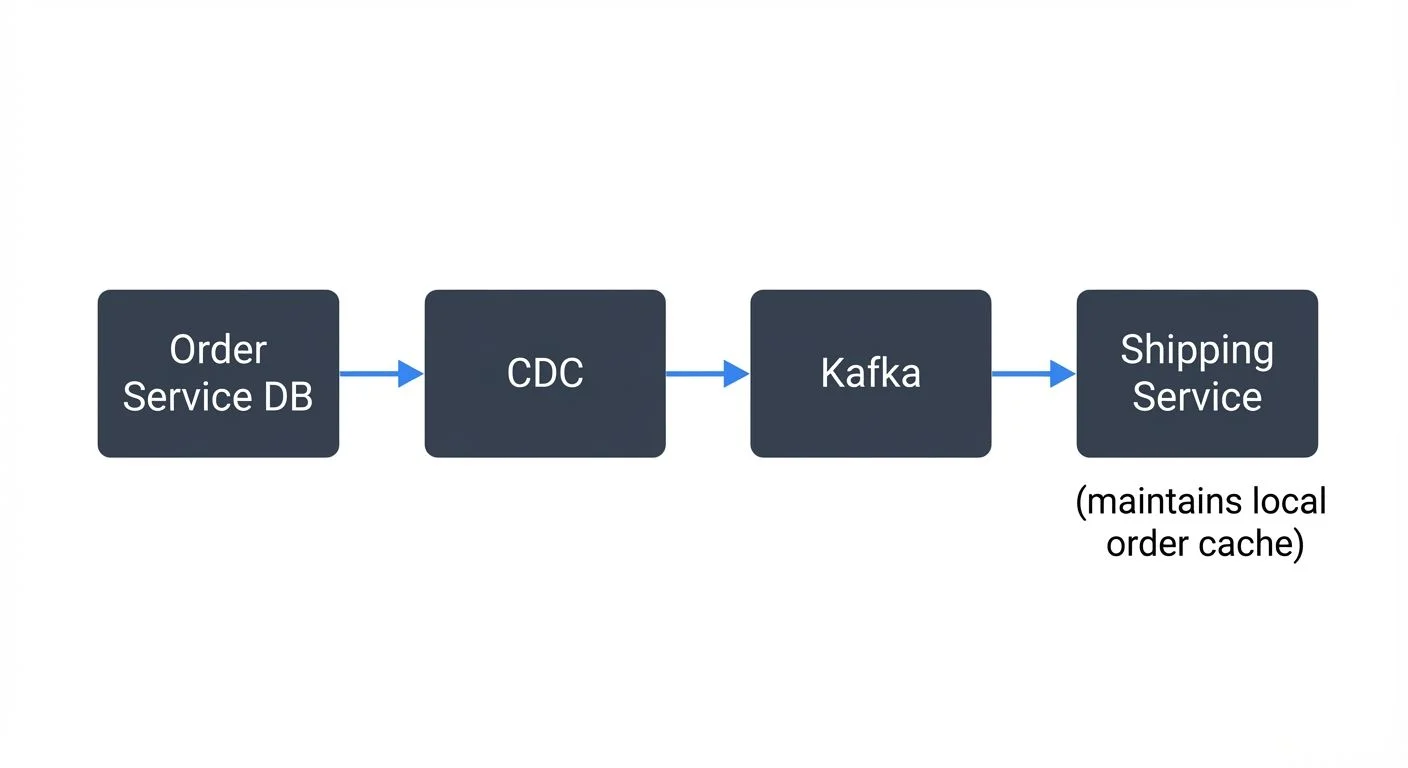
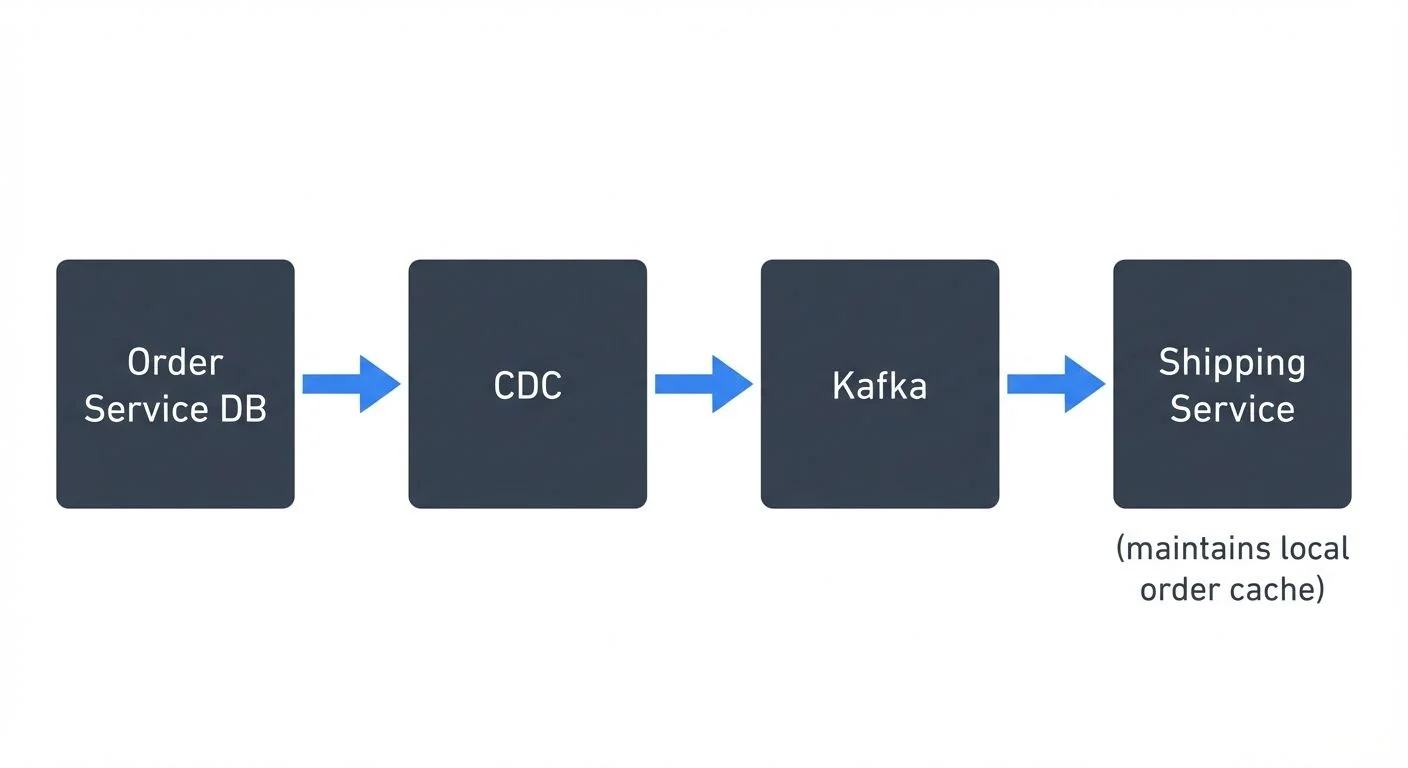
Fix nested HTML comment bug and regenerate 25 diagrams
- Restored 7 affected markdown files from clean state (af07f47)
- Regenerated all 25 diagram images with Gemini API
- Fixed cumulative --> closure bug from previous conversion runs
- Converted 71 internal links to absolute URLs

Affected files:
- api-gateway-patterns-for-data-platforms.md
- cdc-for-microservices-event-driven-architectures.md
- data-lake-zones-bronze-silver-gold-architecture.md
- delta-lake-transaction-log-how-it-works.md
- kafka-topics-partitions-brokers-core-architecture.md
- real-time-ml-pipelines.md
- windowing-in-apache-flink-tumbling-sliding-and-session-windows.md

Changed region(s): [[0.0312, 0.3125, 0.9688, 0.7812], [0.3438, 0.4688, 0.4062, 0.5312]]

diff --git a/delta-lake-transaction-log-how-it-works.md b/delta-lake-transaction-log-how-it-works.md
@@ -32,9 +32,6 @@ When a reader queries a Delta table, it reconstructs the current state by readin
 ![delta-lake-transaction-log-how-it-works diagram 1](images/diagrams/delta-lake-transaction-log-how-it-works-0.webp)
 
 <!-- ORIGINAL_DIAGRAM
-![Example of compatible blind appends](images/diagrams/delta-lake-transaction-log-how-it-works-0.webp)
-
-<!-- ORIGINAL_DIAGRAM
 ```
                     Delta Table Structure
 ┌────────────────────────────────────────────────────────────┐
@@ -52,7 +49,6 @@ When a reader queries a Delta table, it reconstructs the current state by readin
 │  └─ part-00002-....parquet                                │
 └────────────────────────────────────────────────────────────┘
 ```
--->
 -->
 
 ## The Optimistic Concurrency Commit Protocol
@@ -80,9 +76,6 @@ When a writer wants to commit changes:
 ![delta-lake-transaction-log-how-it-works diagram 2](images/diagrams/delta-lake-transaction-log-how-it-works-1.webp)
 
 <!-- ORIGINAL_DIAGRAM
-![When you run a time travel query, Delta Lake performs these steps](images/diagrams/delta-lake-transaction-log-how-it-works-1.webp)
-
-<!-- ORIGINAL_DIAGRAM
 ```
               Optimistic Concurrency Protocol
 
@@ -106,7 +99,6 @@ When a writer wants to commit changes:
       │                                           ✓ SUCCESS
       ▼                                           ▼
 ```
--->
 -->
 
 The atomicity guarantee comes from cloud storage's conditional PUT operations (e.g., S3's PUT-if-absent, ADLS's create-if-not-exists). These operations either fully succeed or fully fail—there's no in-between state where a file is "partially written." When S3 receives two simultaneous PUT-if-absent requests for the same file, exactly one succeeds and the other fails immediately. The failed writer detects the conflict, re-validates against the new state, and retries if the operation is still valid.
@@ -157,7 +149,7 @@ Delta Lake categorizes conflicts into two types:
 **1. Blind Append Conflicts** - Two writers adding new data with no dependency on existing rows. These typically proceed without conflict because writers are adding different data.
 
 Example of compatible blind appends:
-![Example of compatible blind appends](images/diagrams/delta-lake-transaction-log-how-it-works-4.webp)
+![Example of compatible blind appends](images/diagrams/delta-lake-transaction-log-how-it-works-2.webp)
 
 <!-- ORIGINAL_DIAGRAM
 ```
@@ -226,7 +218,7 @@ As tables evolve through hundreds or thousands of commits, reading the entire tr
 
 Every 10 commits (by default), Delta Lake generates a checkpoint file that represents the complete table state at that version. This checkpoint is a Parquet file containing the same information as the aggregated JSON log entries up to that point.
 
-![delta-lake-transaction-log-how-it-works diagram 3](images/diagrams/delta-lake-transaction-log-how-it-works-2.webp)
+![delta-lake-transaction-log-how-it-works diagram 4](images/diagrams/delta-lake-transaction-log-how-it-works-3.webp)
 
 <!-- ORIGINAL_DIAGRAM
 ```
@@ -278,7 +270,7 @@ This compression dramatically reduces the amount of data readers must process to
 
 For very large tables, Delta Lake can create multi-part checkpoints split across multiple Parquet files, with a JSON manifest coordinating the parts:
 
-![For very large tables, Delta Lake can create multi-part checkpoints split across multiple Parquet files, with a JSON manifest coordinating the parts](images/diagrams/delta-lake-transaction-log-how-it-works-3.webp)
+![For very large tables, Delta Lake can create multi-part checkpoints split across multiple Parquet files, with a JSON manifest coordinating the parts](images/diagrams/delta-lake-transaction-log-how-it-works-4.webp)
 
 <!-- ORIGINAL_DIAGRAM
 ```

diff --git a/data-lake-zones-bronze-silver-gold-architecture.md b/data-lake-zones-bronze-silver-gold-architecture.md
@@ -17,7 +17,7 @@ The Medallion Architecture, also known as the Bronze-Silver-Gold pattern, has be
 
 The Medallion Architecture divides your data lake into three distinct zones, each serving a specific purpose in the data pipeline:
 
-![The Medallion Architecture divides your data lake into three distinct zones, each serving a specific purpose in the data pipeline](images/diagrams/data-lake-zones-bronze-silver-gold-architecture-2.webp)
+![The Medallion Architecture divides your data lake into three distinct zones, each serving a specific purpose in the data pipeline](images/diagrams/data-lake-zones-bronze-silver-gold-architecture-0.webp)
 
 <!-- ORIGINAL_DIAGRAM
 ```
@@ -58,7 +58,7 @@ For real-time data pipelines, the Bronze layer excels at consuming streaming dat
 
 Modern Kafka platforms like **Conduktor** provide essential visibility into streaming data flows, helping teams manage topics, monitor consumer lag, validate schemas, and track data quality metrics as events flow into the Bronze layer. This operational insight ensures that your Bronze ingestion pipeline remains healthy and performant.
 
-![The Medallion Architecture divides your data lake into three distinct zones, each serving a specific purpose in the data pipeline](images/diagrams/data-lake-zones-bronze-silver-gold-architecture-1.webp)
+![data-lake-zones-bronze-silver-gold-architecture diagram 2](images/diagrams/data-lake-zones-bronze-silver-gold-architecture-1.webp)
 
 <!-- ORIGINAL_DIAGRAM
 ```
@@ -164,10 +164,7 @@ The Gold layer contains curated, business-level datasets optimized for specific 
 
 Unlike Bronze and Silver, which are technical layers, Gold is organized around business domains:
 
-![Unlike Bronze and Silver, which are technical layers, Gold is organized around business domains](images/diagrams/data-lake-zones-bronze-silver-gold-architecture-0.webp)
-
-<!-- ORIGINAL_DIAGRAM
-![The Medallion Architecture divides your data lake into three distinct zones, each serving a specific purpose in the data pipeline](images/diagrams/data-lake-zones-bronze-silver-gold-architecture-0.webp)
+![Unlike Bronze and Silver, which are technical layers, Gold is organized around business domains](images/diagrams/data-lake-zones-bronze-silver-gold-architecture-2.webp)
 
 <!-- ORIGINAL_DIAGRAM
 ```
@@ -182,7 +179,6 @@ gold/
     ├── feature_usage_metrics
     └── user_engagement_scores
 ```
--->
 -->
 
 ### Example Gold Table

diff --git a/windowing-in-apache-flink-tumbling-sliding-and-session-windows.md b/windowing-in-apache-flink-tumbling-sliding-and-session-windows.md
@@ -45,9 +45,6 @@ Windows are fundamental constructs in stream processing that segment continuous 
 ![windowing-in-apache-flink-tumbling-sliding-and-session-windows diagram 1](images/diagrams/windowing-in-apache-flink-tumbling-sliding-and-session-windows-0.webp)
 
 <!-- ORIGINAL_DIAGRAM
-![windowing-in-apache-flink-tumbling-sliding-and-session-windows diagram 1](images/diagrams/windowing-in-apache-flink-tumbling-sliding-and-session-windows-0.webp)
-
-<!-- ORIGINAL_DIAGRAM
 ```
 ┌──────────────────────────────────────────────────────────────────┐
 │                   Window Types Overview                          │
@@ -80,7 +77,6 @@ Windows are fundamental constructs in stream processing that segment continuous 
 └──────────────────────────────────────────────────────────────────┘
 ```
 -->
--->
 
 Flink supports two main categories of windows:
 
@@ -102,7 +98,7 @@ Event time provides deterministic results and handles out-of-order events correc
 
 **Watermarks** are Flink's mechanism for tracking event time progress in the stream. A watermark with timestamp T is an assertion that "all events with timestamps less than T have arrived."
 
-![windowing-in-apache-flink-tumbling-sliding-and-session-windows diagram 3](images/diagrams/windowing-in-apache-flink-tumbling-sliding-and-session-windows-2.webp)
+![windowing-in-apache-flink-tumbling-sliding-and-session-windows diagram 2](images/diagrams/windowing-in-apache-flink-tumbling-sliding-and-session-windows-1.webp)
 
 <!-- ORIGINAL_DIAGRAM
 ```
@@ -511,7 +507,7 @@ This governance layer becomes essential when managing multiple Flink jobs consum
 
 Selecting the appropriate window type is critical for both correctness and performance. Use this decision tree:
 
-![Selecting the appropriate window type is critical for both correctness and performance. Use this decision tree](images/diagrams/windowing-in-apache-flink-tumbling-sliding-and-session-windows-1.webp)
+![Selecting the appropriate window type is critical for both correctness and performance. Use this decision tree](images/diagrams/windowing-in-apache-flink-tumbling-sliding-and-session-windows-2.webp)
 
 <!-- ORIGINAL_DIAGRAM
 ```

diff --git a/kafka-topics-partitions-brokers-core-architecture.md b/kafka-topics-partitions-brokers-core-architecture.md
@@ -50,7 +50,7 @@ ProducerRecord<String, String> record =
 // Forces message to partition 2
 ```
 
-![kafka-topics-partitions-brokers-core-architecture diagram 4](images/diagrams/kafka-topics-partitions-brokers-core-architecture-3.webp)
+![kafka-topics-partitions-brokers-core-architecture diagram 1](images/diagrams/kafka-topics-partitions-brokers-core-architecture-0.webp)
 
 <!-- ORIGINAL_DIAGRAM
 ```
@@ -162,10 +162,7 @@ Instead of external ZooKeeper nodes, dedicated **controller nodes** (or combined
 
 **Architecture Impact:**
 
-![**Architecture Impact:**](images/diagrams/kafka-topics-partitions-brokers-core-architecture-0.webp)
-
-<!-- ORIGINAL_DIAGRAM
-![kafka-topics-partitions-brokers-core-architecture diagram 1](images/diagrams/kafka-topics-partitions-brokers-core-architecture-0.webp)
+![**Architecture Impact:**](images/diagrams/kafka-topics-partitions-brokers-core-architecture-1.webp)
 
 <!-- ORIGINAL_DIAGRAM
 ```
@@ -183,7 +180,6 @@ Traditional (ZooKeeper):                 KRaft Mode (Kafka 4.0+):
 └────────────┘         └──────────┘    └────────────┘         └──────────┘
 ```
 -->
--->
 
 For in-depth coverage of KRaft architecture and migration strategies, see [Understanding KRaft Mode in Kafka](https://conduktor.io/glossary/understanding-kraft-mode-in-kafka).
 
@@ -200,7 +196,7 @@ Kafka 3.6+ introduced **tiered storage**, fundamentally changing how brokers man
 
 **Architectural Benefits:**
 
-![**Architectural Benefits:**](images/diagrams/kafka-topics-partitions-brokers-core-architecture-1.webp)
+![**Architectural Benefits:**](images/diagrams/kafka-topics-partitions-brokers-core-architecture-2.webp)
 
 <!-- ORIGINAL_DIAGRAM
 ```
@@ -231,7 +227,7 @@ For detailed configuration and best practices, see [Tiered Storage in Kafka](htt
 
 The interaction between topics, partitions, and brokers creates Kafka's distributed log architecture:
 
-![The interaction between topics, partitions, and brokers creates Kafka's distributed log architecture](images/diagrams/kafka-topics-partitions-brokers-core-architecture-2.webp)
+![The interaction between topics, partitions, and brokers creates Kafka's distributed log architecture](images/diagrams/kafka-topics-partitions-brokers-core-architecture-3.webp)
 
 <!-- ORIGINAL_DIAGRAM
 ```

diff --git a/real-time-ml-pipelines.md b/real-time-ml-pipelines.md
@@ -35,9 +35,6 @@ A complete real-time ML pipeline consists of several interconnected layers:
 ![A complete real-time ML pipeline consists of several interconnected layers](images/diagrams/real-time-ml-pipelines-0.webp)
 
 <!-- ORIGINAL_DIAGRAM
-![Real-time ML systems must capture prediction outcomes to detect [model drift](/model-drift-in-streaming) and retrain](images/diagrams/real-time-ml-pipelines-0.webp)
-
-<!-- ORIGINAL_DIAGRAM
 ```
            Real-Time ML Pipeline Architecture
 
@@ -89,7 +86,6 @@ A complete real-time ML pipeline consists of several interconnected layers:
          └──────────────┘
 ```
 -->
--->
 
 ### Feature Engineering Layer
 
@@ -128,7 +124,7 @@ Once features are ready, models must generate predictions within strict latency 
 
 Real-time ML systems must capture prediction outcomes to detect [model drift](/model-drift-in-streaming) and retrain:
 
-![Real-time ML systems must capture prediction outcomes to detect [model drift](/model-drift-in-streaming) and retrain](images/diagrams/real-time-ml-pipelines-3.webp)
+![Real-time ML systems must capture prediction outcomes to detect [model drift](/model-drift-in-streaming) and retrain](images/diagrams/real-time-ml-pipelines-1.webp)
 
 <!-- ORIGINAL_DIAGRAM
 ```
@@ -280,7 +276,7 @@ Example targets:
 - Search ranking: p99 < 100ms
 
 **Latency budget breakdown**:
-![**Latency budget breakdown**](images/diagrams/real-time-ml-pipelines-1.webp)
+![**Latency budget breakdown**](images/diagrams/real-time-ml-pipelines-2.webp)
 
 <!-- ORIGINAL_DIAGRAM
 ```
@@ -344,7 +340,7 @@ For example, Conduktor can enforce that all events in the `transactions` topic i
 
 For comprehensive coverage, see [real-time fraud detection with streaming](/real-time-fraud-detection-with-streaming).
 
-![real-time-ml-pipelines diagram 3](images/diagrams/real-time-ml-pipelines-2.webp)
+![real-time-ml-pipelines diagram 4](images/diagrams/real-time-ml-pipelines-3.webp)
 
 <!-- ORIGINAL_DIAGRAM
 ```

diff --git a/api-gateway-patterns-for-data-platforms.md b/api-gateway-patterns-for-data-platforms.md
@@ -28,15 +28,6 @@ For data platforms specifically, API gateways solve several problems. They provi
 ![## Core API Gateway Patterns](images/diagrams/api-gateway-patterns-for-data-platforms-0.webp)
 
 <!-- ORIGINAL_DIAGRAM
-![### BFF Architecture](images/diagrams/api-gateway-patterns-for-data-platforms-0.webp)
-
-<!-- ORIGINAL_DIAGRAM
-![api-gateway-patterns-for-data-platforms diagram 1](images/diagrams/api-gateway-patterns-for-data-platforms-0.webp)
-
-<!-- ORIGINAL_DIAGRAM
-![### BFF Architecture](images/diagrams/api-gateway-patterns-for-data-platforms-0.webp)
-
-<!-- ORIGINAL_DIAGRAM
 ```
                API Gateway Architecture
 
@@ -63,9 +54,6 @@ For data platforms specifically, API gateways solve several problems. They provi
 │ Service │      │ Cluster │      │  API    │
 └─────────┘      └─────────┘      └─────────┘
 ```
--->
--->
--->
 -->
 
 ### Routing and Service Discovery
@@ -102,7 +90,7 @@ Kafka gateways must handle long-lived connections for consuming message streams.
 
 For comprehensive understanding of Kafka's core architecture and how topics, partitions, and consumer groups work, see [Apache Kafka](https://conduktor.io/glossary/apache-kafka).
 
-![### BFF Architecture](images/diagrams/api-gateway-patterns-for-data-platforms-1.webp)
+![api-gateway-patterns-for-data-platforms diagram 2](images/diagrams/api-gateway-patterns-for-data-platforms-1.webp)
 
 <!-- ORIGINAL_DIAGRAM
 ```

diff --git a/cdc-for-microservices-event-driven-architectures.md b/cdc-for-microservices-event-driven-architectures.md
@@ -42,9 +42,6 @@ CDC transforms database changes into a stream of events automatically, without r
 ![cdc-for-microservices-event-driven-architectures diagram 1](images/diagrams/cdc-for-microservices-event-driven-architectures-0.webp)
 
 <!-- ORIGINAL_DIAGRAM
-![cdc-for-microservices-event-driven-architectures diagram 1](images/diagrams/cdc-for-microservices-event-driven-architectures-0.webp)
-
-<!-- ORIGINAL_DIAGRAM
 ```
 ┌─────────────────────────────────────────────────────────────┐
 │                    Event-Driven Architecture                 │
@@ -72,7 +69,6 @@ CDC transforms database changes into a stream of events automatically, without r
 │                                                               │
 └─────────────────────────────────────────────────────────────┘
 ```
--->
 -->
 
 ## Event Sourcing and CDC
